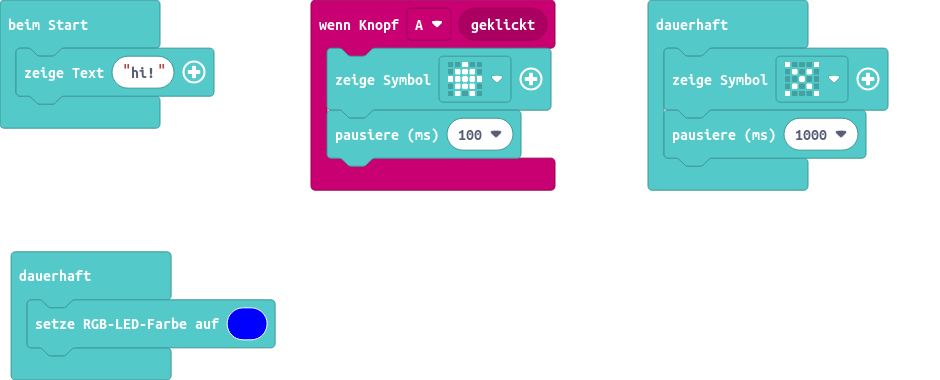
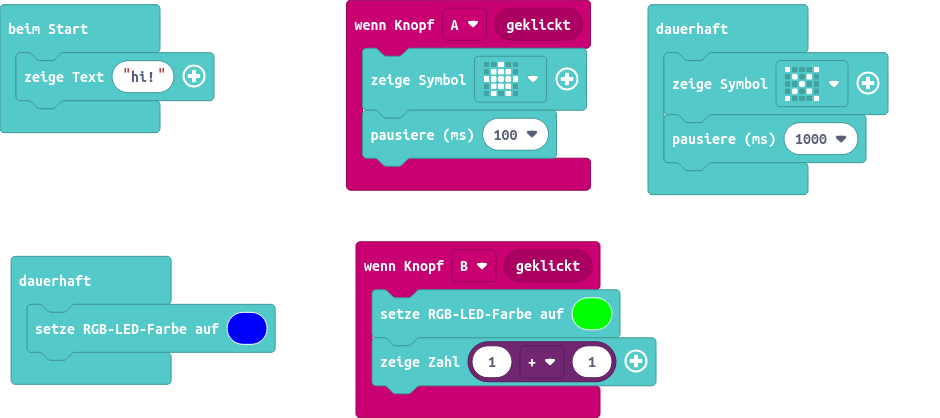
Meinzzzz

diff --git a/main.ts b/main.ts
@@ -2,6 +2,10 @@ input.onButtonEvent(Button.A, input.buttonEventClick(), function () {
     basic.showIcon(IconNames.House)
     basic.pause(100)
 })
+input.onButtonEvent(Button.B, input.buttonEventClick(), function () {
+    basic.setLedColor(0x00ff00)
+    basic.showNumber(1 + 1)
+})
 basic.showString("hi!")
 basic.forever(function () {
     basic.showIcon(IconNames.No)
